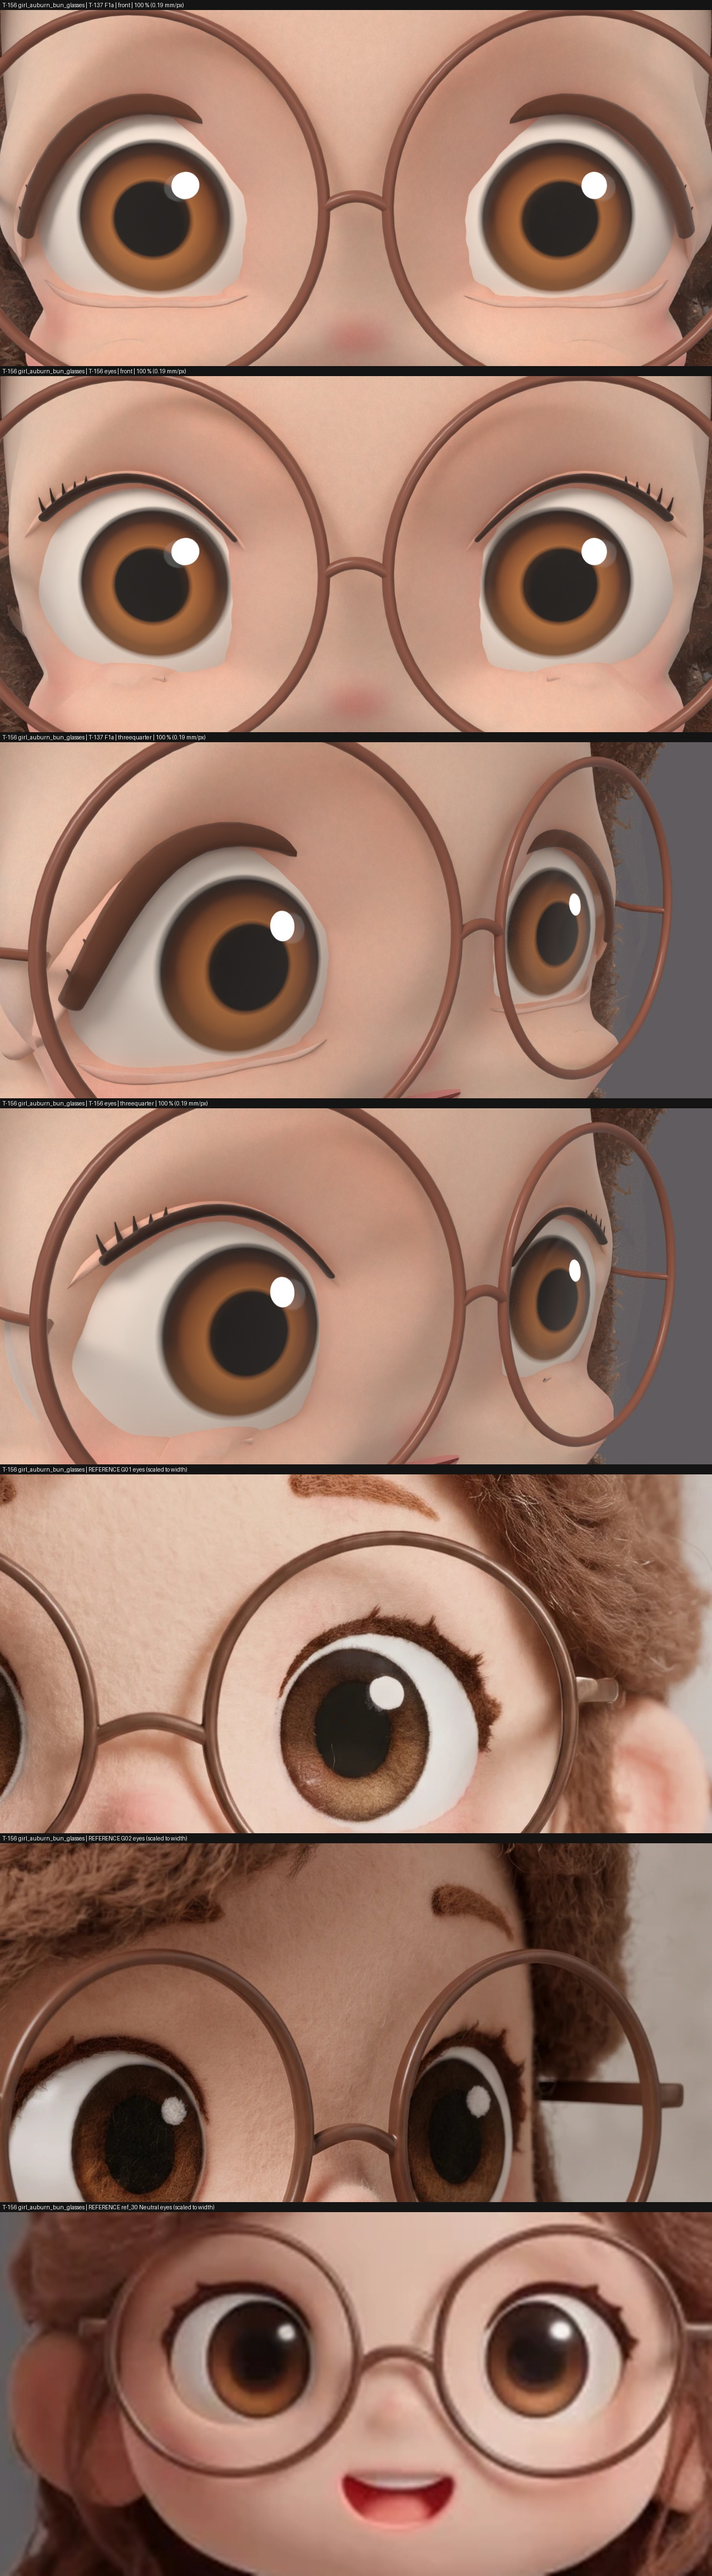
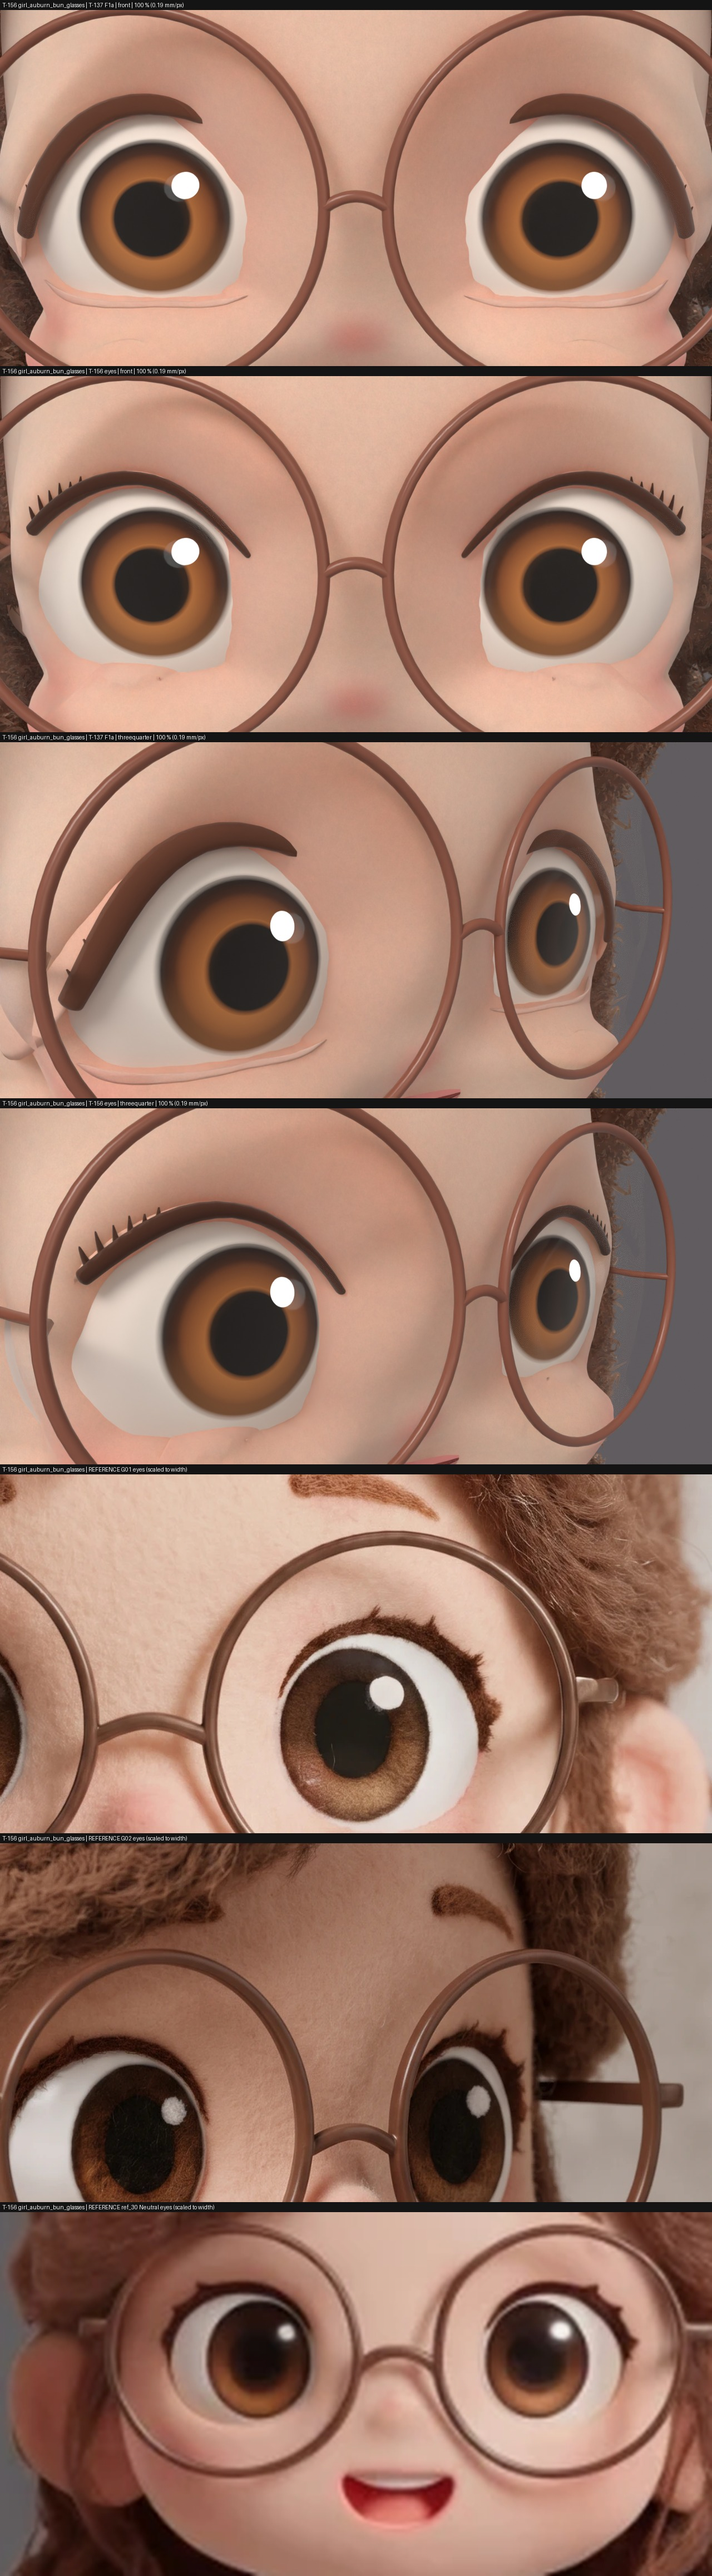
T-156: review-fix sheets (strict, eyes open/closed), README for the owner review points
Claude-Session: https://claude.ai/code/session_01NPjxeLCXhZEPNhYQkrAed1

diff --git a/docs/evaluation/characters/T-156/README.md b/docs/evaluation/characters/T-156/README.md
@@ -1,15 +1,25 @@
 # T-156: lashes and eye shape to the T-150 targets (both girls)
 
-> **Sheet review (final renders, 2026-11-20).** `eyes_closed_100.jpg`: top = baseline, bottom = candidate, Blink 1.0. Front: thin liner + 5 outer lashes read as intended on both girls; openings rounder than T-137. Closed: lash curve is a clean thin arc on both (third girl's baseline band kinked at the inner end; gone). Open defects, not fixed here: (1) three-quarter view, near eye, both girls: a pale flap of sclera/socket shows past the outer corner (the widened socket window, corner_deg 37/36, is not covered by the lid at that angle); (2) auburn front: faint creases remain under the lower lid; (3) the lid-patch tone edge on the closed lids pre-exists in the T-137 baselines.
+> **Owner review of 2026-11-20 (14:43Z relay), status of the five points.** Sheets below are the final renders.
+> 1. *Pale flap past the outer corner of the near eye in 3/4 (both girls):* **fixed** (`lids.trim.up_outer_deg` 44, liner span 41).
+> 2. *Creases under the auburn lower lid:* **partly.** The lower-lid shell is cut to a speck (trims 0.4 deg); a faint soft
+>    crease in the socket skin itself remains (see limits).
+> 3. *Lash colour / fullness:* **changed** to warm dark brown, a fuller liner and six outer lashes on both girls
+>    (auburn [70,40,28], 1.9 mm; third girl [60,37,30], 1.7 mm). Boy unchanged.
+> 4. *Pale pink teardrop above the closed lids:* third girl **fixed** (it was the upper lid shell coming through the
+>    socket skin by up to 3.4 mm; new opt-in `closed_fit.sink_m`). Auburn: the closed lid is the dome itself (without
+>    it the eyeball shows), so it stays; its tone is now close to the skin (new opt-in `closed_fit.shell_occlusion_tint`),
+>    the dome edge is still visible.
+> 5. *Third girl's closed-eye shape above the eyes:* **not reached.** The dome and the diagonal fold are the carved
+>    socket skin (`face_v3/socket.py`, not in T-156's ownership); no override key changes them (see limits).
 
 Input `t-137-claude-faces @ 321466a`; targets `docs/evaluation/characters/T-150/targets.json` (main `e2c8904`).
 Blender: bpy 5.3 behind `tools/bpy_blender.py`. Overrides only; no current version, spec or published file changed.
 Scope follows the Supervisor's notes of 06:41 / 06:50 / 07:04Z (lash first, lower-lid crease, boy; fringe untouched).
 
-**Result.** Lash: thin dark liner with five short separate lashes at the outer corner (both girls); the closed eye
-keeps a thin lash curve (auburn now too). Shape: every T-150 front metric is inside its band on both eyes
-(auburn 11/28 -> 28/28, third girl 9/28 -> 28/28); opening width 67 -> 62 mm and 71 -> 61 mm. The pale lower-lid
-crease is gone except a 4 mm stub under the iris. **Boy: not changed, see the question below.**
+**Result.** Lash: warm dark brown liner with six short separate lashes at the outer corner (both girls); the closed
+eye is a thin lash arc. Shape: every T-150 front metric is inside its band on both eyes (auburn 11/28 -> 28/28,
+third girl 9/28 -> 28/28). Blink: 0 sclera / iris pixels on both girls. **Boy: not changed, see the question below.**
 
 ## What changed
 `auburn/girl_auburn_bun_glasses.eyes.override.json`, `third/girl_white_hair_blue_dress.eyes.override.json`
@@ -17,17 +27,19 @@ crease is gone except a 4 mm stub under the iris. **Boy: not changed, see the qu
 
 | key (`face.eyes.`) | auburn T-137 -> T-156 | third T-137 -> T-156 | effect |
 |---|---|---|---|
-| `lash.thick_m`, `flare`, `srgb` | 3.4 -> 1.3 mm, 0.6 -> 0.8, [96,58,42] -> [52,32,26] | 3.4 -> 1.3 mm, 0.6 -> 0.8, [70,44,36] -> [40,26,24] | thin dark liner instead of the brown band |
-| `lash.span_deg`, `lash.strands` | 52 -> 36; 5 lashes at 20-35 deg, 2.5-4.2 mm | 56 -> 36; same | liner ends at the corners; short outer lashes |
+| `lash.thick_m`, `flare`, `srgb` | 3.4 -> 1.9 mm, 0.6 -> 1.0, [96,58,42] -> [70,40,28] | 3.4 -> 1.7 mm, 0.6 -> 1.0, [70,44,36] -> [60,37,30] | warm dark brown liner, thinner than the band |
+| `lash.span_deg`, `lash.strands` | 52 -> 41; 6 lashes at 22-39 deg, 3-4.8 mm, 1.3 mm wide | 56 -> 41; same | liner reaches the outer corner; short outer lashes |
 | `lash.lower_strands.count` | 0 (as F1a) | 3 -> 0 | they showed as two dark specks |
-| `lids.trim.lo_outer_deg` / `lo_inner_deg` | 62 / none -> 2 / 2 | same | lower lid shell (the pale crease) cut to a stub the blink seam needs |
+| `lids.trim.lo_outer_deg` / `lo_inner_deg` | 62 / none -> 0.4 / 0.4 | same | lower lid shell (the pale crease) cut to the speck the blink seam needs |
 | `lids.closed_fit.lash_curve` | none -> as F1b, span [-0.45, 0.62] | span -> [-0.45, 0.62] | closed-eye lash curve |
 | `socket.corner_deg` | 42 -> 37 | 46 -> 36 | narrower opening (width, H/W, D/W, no inner white) |
 | `lids.upper_edge_deg` / `lower_edge_deg` | 38 / -36 -> 34.5 / -41.5 | 38 / -36 -> 33.5 / -39 | arch, lower lid, white above |
 | `iris.radius` (`pupil` = half) | 0.47 -> 0.46 | 0.462 -> 0.458 | D/spacing |
 | `lids.upper_roll_deg` | -18 -> 6 | -18 -> 1 | corners level, outer corner angle |
 | `lids.upper_yaw_deg` (new, opt-in) | 8 | 8 | lid peak over the middle of the opening |
-| `lids.lower_curve`, `lids.trim.up_outer_deg` | 0.15 -> 0.6, 72 -> 46 | same | lower corners; upper shell tip past the outer corner |
+| `lids.lower_curve`, `lids.trim.up_outer_deg` | 0.15 -> 0.6, 72 -> 44 | same | lower corners; no upper shell flap past the outer corner |
+| `lids.closed_fit.shell_subsurface`, `shell_occlusion_tint` (new, opt-in) | 0.0, 0.5 | 0.0, 0.5 | closed lid tone close to the skin |
+| `lids.closed_fit.sink_m` (new, opt-in) | not set | 0.005 | closed upper shell under the socket skin (teardrop) |
 
 The lash keys are separable: drop the `lash` block to keep the T-137 lash on the new shape.
 
@@ -36,6 +48,10 @@ edge is close to a circle about the eye's forward axis, so its peak sat over the
 corner (band <= 0.586) whatever the roll (tried -6 .. +14 deg): the nose-side skin makes the opening narrower on the
 inner side. The yaw turns the lid and its lash about the eye's vertical axis; the eyeball does not move. Key
 absent = the previous return value, bit for bit (unit test).
+Two more opt-ins in `fit_closed_lids` (same file), both absent = unchanged code path (static tests):
+`closed_fit.sink_m` pushes the middle of the closed upper shell inwards (weight c^3, upper shell only), so it no
+longer comes through the socket skin; `closed_fit.shell_occlusion_tint` scales the occlusion-driven warmth / crease
+tints in the lid's copy of the skin material, which tinted the convex shell differently from the concave skin.
 
 ## Measurement (reproducible)
 `eye_measure.py` (headless, no render, about 6 s): one ray per pixel of the 0.24 x 0.12 m eye window (1280 x 640)
@@ -63,11 +79,11 @@ builds (0.83 / 0.79). Blink: 0 open pixels on both girls.
 | white_above_w | 0.056 ±0.041 | **0.106** | **0.106** | 0.078 | 0.078 |
 | white_below_w | 0.028 ±0.044 | 0.017 | 0.017 | 0.036 | 0.036 |
 | white_inner_w | 0.000 ±0.042 | **0.058** | **0.056** | 0.000 | 0.000 |
-| white_outer_w | 0.248 ±0.044 | **0.181** | **0.181** | 0.236 | 0.236 |
-| arch_w | 0.504 ±0.050 | 0.507 | 0.511 | 0.550 | 0.549 |
+| white_outer_w | 0.248 ±0.044 | **0.181** | **0.181** | 0.239 | 0.239 |
+| arch_w | 0.504 ±0.050 | 0.507 | 0.511 | 0.545 | 0.546 |
 | inner_angle_deg | 142.504 ±9.485 | 138.933 | 138.229 | 148.263 | 148.247 |
-| outer_angle_deg | 142.178 ±9.962 | **126.543** | **126.969** | 136.036 | 136.204 |
-| inner_drop_w | 0.006 ±0.087 | **-0.092** | **-0.090** | 0.015 | 0.019 |
+| outer_angle_deg | 142.178 ±9.962 | **126.543** | **126.969** | 136.578 | 136.508 |
+| inner_drop_w | 0.006 ±0.087 | **-0.092** | **-0.090** | 0.025 | 0.025 |
 | apex_from_outer_w | 0.516 ±0.070 | 0.568 | 0.570 | 0.524 | 0.524 |
 
 In tolerance: before 11/28, after 28/28. left / right = image left / right (the viewer's); bold = out of band.
@@ -75,20 +91,20 @@ In tolerance: before 11/28, after 28/28. left / right = image left / right (the 
 ### Third girl, front
 | metric | target front | before left | before right | after left | after right |
 |---|---|---|---|---|---|
-| opening_h_w | 0.952 ±0.075 | **0.787** | **0.796** | 0.905 | 0.905 |
-| iris_d_w | 0.751 ±0.049 | **0.656** | **0.663** | 0.761 | 0.761 |
+| opening_h_w | 0.952 ±0.075 | **0.787** | **0.796** | 0.902 | 0.902 |
+| iris_d_w | 0.751 ±0.049 | **0.656** | **0.663** | 0.758 | 0.758 |
 | iris_d_spacing | 0.356 ±0.022 | 0.377 | 0.377 | 0.374 | 0.374 |
-| iris_x_from_outer_w | 0.619 ±0.048 | **0.565** | **0.571** | 0.623 | 0.623 |
+| iris_x_from_outer_w | 0.619 ±0.048 | **0.565** | **0.571** | 0.624 | 0.624 |
 | iris_y_from_top_h | 0.498 ±0.047 | **0.553** | **0.553** | 0.512 | 0.512 |
-| white_above_w | 0.038 ±0.048 | **0.108** | **0.109** | 0.071 | 0.071 |
+| white_above_w | 0.038 ±0.048 | **0.108** | **0.109** | 0.070 | 0.070 |
 | white_below_w | 0.022 ±0.048 | 0.021 | 0.021 | 0.058 | 0.058 |
 | white_inner_w | 0.009 ±0.044 | **0.095** | **0.085** | 0.000 | 0.000 |
-| white_outer_w | 0.237 ±0.061 | **0.176** | 0.178 | 0.242 | 0.242 |
-| arch_w | 0.509 ±0.059 | 0.540 | 0.547 | 0.464 | 0.465 |
-| inner_angle_deg | 142.863 ±10.364 | **130.926** | **132.161** | 147.236 | 147.197 |
-| outer_angle_deg | 140.768 ±11.999 | **121.145** | **121.888** | 138.916 | 138.917 |
-| inner_drop_w | -0.020 ±0.055 | **-0.077** | **-0.076** | -0.037 | -0.037 |
-| apex_from_outer_w | 0.528 ±0.077 | 0.550 | 0.554 | 0.529 | 0.524 |
+| white_outer_w | 0.237 ±0.061 | **0.176** | 0.178 | 0.245 | 0.245 |
+| arch_w | 0.509 ±0.059 | 0.540 | 0.547 | 0.460 | 0.461 |
+| inner_angle_deg | 142.863 ±10.364 | **130.926** | **132.161** | 147.142 | 147.102 |
+| outer_angle_deg | 140.768 ±11.999 | **121.145** | **121.888** | 138.345 | 138.345 |
+| inner_drop_w | -0.020 ±0.055 | **-0.077** | **-0.076** | -0.032 | -0.031 |
+| apex_from_outer_w | 0.528 ±0.077 | 0.550 | 0.554 | 0.530 | 0.526 |
 
 In tolerance: before 9/28, after 28/28. left / right = image left / right (the viewer's); bold = out of band.
 
@@ -100,23 +116,23 @@ In tolerance: before 9/28, after 28/28. left / right = image left / right (the v
 | iris_d_spacing | 0.416 ±0.015 | 0.310 ±0.015 | **0.434** | **0.348** | 0.425 | **0.340** |
 | iris_x_from_outer_w | 0.653 ±0.035 | 0.537 ±0.035 | 0.653 | 0.505 | 0.674 | 0.548 |
 | iris_y_from_top_h | 0.500 ±0.035 | 0.507 ±0.035 | **0.542** | **0.544** | 0.512 | 0.504 |
-| white_above_w | 0.040 ±0.035 | 0.100 ±0.035 | **0.165** | **0.282** | **0.135** | **0.272** |
+| white_above_w | 0.040 ±0.035 | 0.100 ±0.035 | **0.165** | **0.282** | **0.135** | **0.252** |
 | white_below_w | 0.033 ±0.035 | 0.050 ±0.035 | **0.072** | **0.150** | **0.097** | **0.184** |
 | white_inner_w | 0.007 ±0.035 | 0.000 ±0.035 | 0.030 | **0.084** | 0.000 | 0.000 |
-| white_outer_w | 0.313 ±0.035 | 0.062 ±0.035 | **0.165** | **0.101** | 0.304 | **0.117** |
-| arch_w | 0.516 ±0.035 | 0.961 ±0.035 | 0.529 | **0.705** | 0.511 | **0.898** |
-| inner_angle_deg | 143.475 ±8.000 | 158.878 ±8.000 | 141.714 | **150.707** | 147.357 | **150.120** |
-| outer_angle_deg | 142.646 ±8.000 | 160.233 ±8.000 | **88.904** | **150.367** | **132.082** | 154.350 |
-| inner_drop_w | -0.007 ±0.035 | -0.050 ±0.035 | **-0.200** | **0.142** | **-0.162** | **0.470** |
-| apex_from_outer_w | 0.547 ±0.035 | 0.525 ±0.035 | **0.638** | **0.480** | 0.579 | **0.468** |
+| white_outer_w | 0.313 ±0.035 | 0.062 ±0.035 | **0.165** | **0.101** | 0.307 | **0.117** |
+| arch_w | 0.516 ±0.035 | 0.961 ±0.035 | 0.529 | **0.705** | 0.509 | **0.891** |
+| inner_angle_deg | 143.475 ±8.000 | 158.878 ±8.000 | 141.714 | **150.707** | 147.357 | **150.027** |
+| outer_angle_deg | 142.646 ±8.000 | 160.233 ±8.000 | **88.904** | **150.367** | **132.338** | 154.350 |
+| inner_drop_w | -0.007 ±0.035 | -0.050 ±0.035 | **-0.200** | **0.142** | **-0.158** | **0.470** |
+| apex_from_outer_w | 0.547 ±0.035 | 0.525 ±0.035 | **0.638** | **0.480** | 0.579 | **0.454** |
 
 In tolerance: before 5/28, after 13/28. left / right = image left / right (the viewer's); bold = out of band.
 
 ## Evidence
-- `*/eyes_100.jpg`: 100 % eye crops, open, front and 3/4 (T-137 build | T-156 | references), Cycles 8 spp.
-- `*/eyes_closed_100.jpg`: 100 % crops, Blink, front (T-137 build | T-156), 8 spp.
+- `*/eyes_100.jpg`: 100 % eye crops, open, front and 3/4 (T-137 build, T-156, references), Cycles 8 spp.
+- `*/eyes_closed_100.jpg`: 100 % crops, Blink, front (top T-137 build, bottom T-156), 8 spp.
 - `*/strict.jpg`: strict sheets, Cycles 16 spp.
-- `preview.jpg`: the cheap preview run first (4 spp, hair and clothes hidden; open and Blink, one trial before final).
+- `preview.jpg`: the cheap previews of the final builds (4 spp, hair and clothes hidden; top open, bottom Blink; front and 3/4).
 
 ## Not reached by an override, and what it would need
 - **H/W is 0.91 / 0.905, not 0.95, and the iris D/W 0.75 / 0.76.** The reference irises are taller than wide (T-150
@@ -129,10 +145,20 @@ In tolerance: before 5/28, after 13/28. left / right = image left / right (the v
 - **Lash.** It turns with the lid and is symmetric about the lid peak, so the liner is as long on the nose side as
   on the outer side. Needs a per-side span / thickness in `face_generic.build_eyes`.
 - **Lower-lid stub.** `face.add_blink_lid_seam` reads the lower lid's front edge within 0.25 r of the middle, so
-  the shell cannot be removed completely (an empty or off-centre shell fails the build).
+  the shell cannot be removed completely (an empty or off-centre shell fails the build); 0.4 deg leaves a speck.
+- **Crease under the auburn lower lid (review point 2).** What is left is a shallow fold in the socket skin below
+  the opening, not the lid shell. `socket` and `closed_fit` keys tried without visible effect: clearance, follow,
+  corner fade, carve reach, smooth iterations, lower ramp. Needs the carve in `face_v3/socket.py` smoothed there.
+- **Third girl, shape above the closed eyes (review point 5).** Her eyeball flattens behind the socket skin on
+  Blink, so what shows is the carved socket skin: a dome with a diagonal fold. The reference
+  (`f14_e10_eyes_closed_calm`) is smooth skin with a thin arc. Same file, `face_v3/socket.py`: the hidden
+  carve needs a Blink-time fill or a smoother profile.
+- **Auburn closed lid.** A visible dome (tone now near the skin, edge still readable); in 3/4 a thin white gap can
+  show at the outer corner when closed (trim 44 is the compromise between that gap and the open-eye flap).
+- **Lashes** are flat separate strands and read slightly comb-like at 100 %.
 - **Oblique (G02) targets: not reached** (13/28). Yaw is not matched to G02 (-35 deg, the eye-crop view), the lens is
-  not modelled, and the far eye is too wide (H/W 1.39 vs 1.78).
-- Inherited from T-137: folds on the third girl's closed lid; a small upper-shell tip at the outer liner end.
+  not modelled, and the far eye is too wide.
+- Inherited from T-137: the lid-patch tone edge on the closed lids.
 
 ## Question for the Supervisor: boy
 Not changed. His references (hero24, val27) show a thick, flat, dark upper-lid band and no separate lashes, and
@@ -140,9 +166,9 @@ Not changed. His references (hero24, val27) show a thick, flat, dark upper-lid b
 him away from his references. His closed eye shows no lash line; the closed-eye lash curve lives in
 `face_v3/lids.py` and he is `face_generic/2`, so that needs a generator decision, not an override.
 
-## Tests
-`python3 pipeline/charsys/tests/test_face_r5.py --blender blender`: 20/20 (14 existing + 6 for the lid yaw: guard,
-no spec under `assets/` uses it, overrides touch `face.eyes` only, unchanged without the key, peak shift with it).
+`python3 pipeline/charsys/tests/test_face_r5.py --blender blender`: 22/22 (14 existing + 8 for the opt-ins: guards,
+no spec under `assets/` uses lid yaw, `sink_m` or `shell_occlusion_tint`, overrides touch `face.eyes` only,
+unchanged without the keys, peak shift with the yaw).
 No test, threshold or golden changed. Not run: ctest, verify_charsys, face_system_test, expression sheets, pupil
 pixels (pupil radius 0.235 -> 0.23 and 0.231 -> 0.229 of the eye radius).
 
